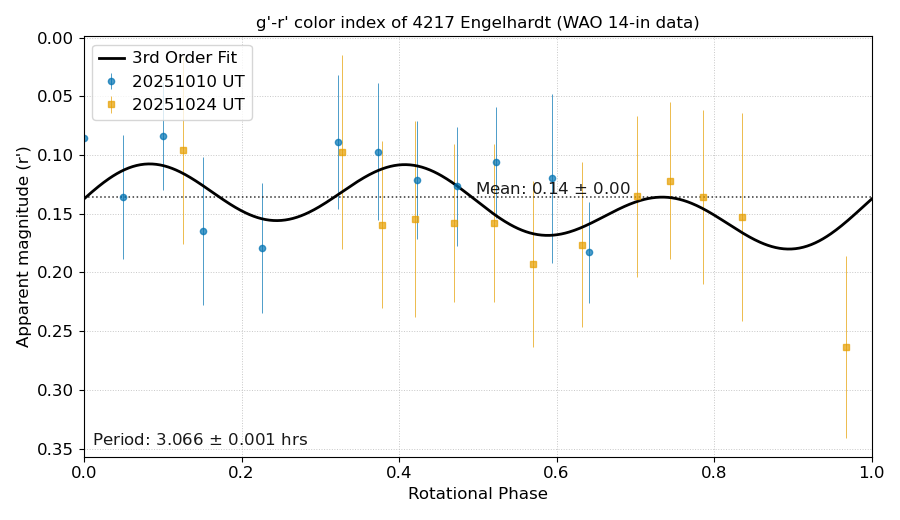
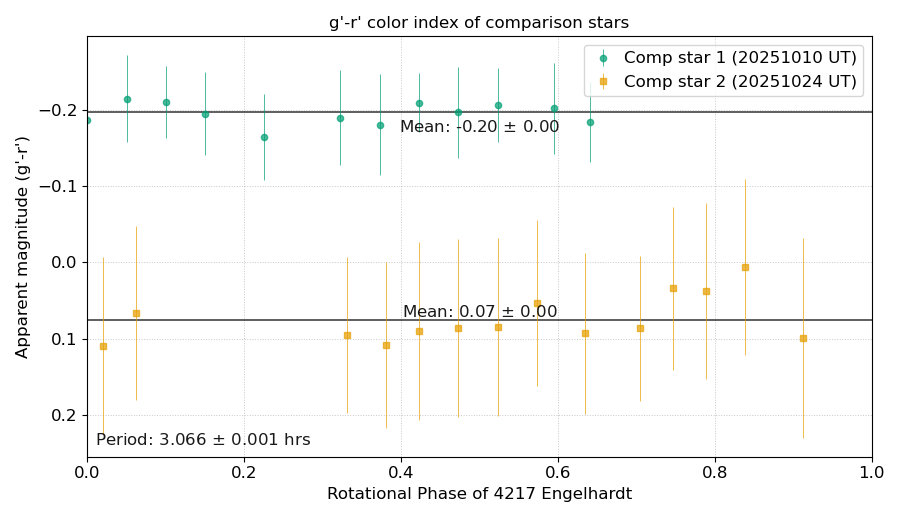
more improvement and lightcurve of comp

diff --git a/comparison.py b/comparison.py
@@ -1,0 +1,118 @@
+import numpy as np
+import pandas as pd
+import matplotlib.pyplot as plt
+from scipy.optimize import curve_fit
+from astropy.stats import sigma_clip
+import pickle
+
+PATH1 = "1010rcomp.csv"
+PATH2 = "1010gcomp.csv"
+PATH3 = "1024rcomp.csv"
+PATH4 = "1024gcomp.csv"
+
+df1 = pd.read_csv(PATH1)
+df2 = pd.read_csv(PATH2)
+df3 = pd.read_csv(PATH3)
+df4 = pd.read_csv(PATH4)
+
+t1 = df1["JD"].astype(float).to_numpy()
+t2 = df2["JD"].astype(float).to_numpy()
+t3 = df3["JD"].astype(float).to_numpy()
+t4 = df4["JD"].astype(float).to_numpy()
+
+m1 = df1["Mag"].astype(float).to_numpy()
+m2 = df2["Mag"].astype(float).to_numpy()
+m3 = df3["Mag"].astype(float).to_numpy()
+m4 = df4["Mag"].astype(float).to_numpy()
+
+e1 = df1["MagErr"].astype(float).to_numpy()
+e2 = df2["MagErr"].astype(float).to_numpy()
+e3 = df3["MagErr"].astype(float).to_numpy()
+e4 = df4["MagErr"].astype(float).to_numpy()
+
+t = []
+m = []
+e = []
+for i in range(len(t2)):
+    t.append((t1[i]+t2[i])/2)
+    m.append(m1[i]-m2[i])
+    e.append(np.sqrt(e1[i]**2+e2[i]**2))
+for i in range(len(t3)):
+    t.append((t3[i]+t4[i])/2)
+    m.append(m3[i]-m4[i])
+    e.append(np.sqrt(e3[i]**2+e4[i]**2))
+t = np.array(t)
+m = np.array(m)
+e = np.array(e)
+print(t)
+
+JD0 = 2460958.5558045
+P_HOURS = 3.066
+P_days = P_HOURS / 24.0
+gap_days = 0.50
+phi = ((t - JD0) / P_days) % 1.0
+title = "g'-r' color index of comparison stars"
+
+dt = np.diff(t, prepend=t[0])
+night_id = np.zeros_like(t, dtype=int)
+for i in range(1, len(t)):
+    night_id[i] = night_id[i-1] + (dt[i] > gap_days)
+
+plt.figure(figsize=(9, 5.2))
+w = 1.0 / np.maximum(e, 1e-6)**2
+
+colors = [
+    "#009E73",  # bluish green
+    "#E69F00",  # orange
+]
+markers = ["o", "s", "^", "D"]
+dates = ["20251010 UT", "20251024 UT"]
+
+unique_nights = np.unique(night_id)
+for i, nid in enumerate(unique_nights):
+    sel = (night_id == nid)
+    w_night = w[sel]
+    m_night = m[sel]
+    
+    mean_night = np.average(m_night, weights=w_night)
+    var_night = np.average((m_night - mean_night)**2, weights=w_night)
+    weight_sum_night = np.sum(w_night)
+    mean_err_night = np.sqrt(var_night / weight_sum_night)
+    
+    plt.axhline(mean_night, color='k', linestyle='-', linewidth=1.1, alpha=0.8)
+    if nid == 0:
+        plt.text(0.5, mean_night + 0.03, f'Mean: {mean_night:.2f} $\\pm$ {mean_err_night:.2f}', 
+             ha='center', va='bottom', alpha=0.9, fontsize=12)
+    else:
+        plt.text(0.5, mean_night, f'Mean: {mean_night:.2f} $\\pm$ {mean_err_night:.2f}', 
+             ha='center', va='bottom', alpha=0.9, fontsize=12)
+    
+    plt.errorbar(
+        phi[sel], m[sel], yerr=e[sel],
+        fmt=markers[i % len(markers)],
+        markersize=4.5,
+        elinewidth=0.7,
+        capsize=0,
+        alpha=0.7,
+        color=colors[i % len(colors)],
+        linestyle='none',
+        label=f"Comp star {nid+1} ({dates[nid]})",
+    )
+
+period_text = f'Period: {P_HOURS:.3f} $\\pm$ 0.001 hrs'
+plt.text(0.01, 0.02, period_text, 
+         transform=plt.gca().transAxes,
+         ha='left', va='bottom', alpha=0.9, fontsize=12)
+
+plt.gca().invert_yaxis()
+plt.xlim(0, 1)
+plt.xlabel("Rotational Phase of 4217 Engelhardt", fontsize=12)
+plt.ylabel("Apparent magnitude (g'-r')", fontsize=12)
+plt.xticks(fontsize=12)
+plt.yticks(fontsize=12) 
+plt.title(title, fontsize=12)
+plt.grid(True, linestyle=':', linewidth=0.7, alpha=0.7)
+plt.legend(loc="upper right", frameon=True, handlelength=1.5, handletextpad=0.5, fontsize=12)
+plt.tight_layout()
+plt.savefig("Figures/colorcurve.png")
+plt.show()

diff --git a/plotcolori.py b/plotcolori.py
@@ -42,39 +42,12 @@ night_id = np.zeros_like(t, dtype=int)
 for i in range(1, len(t)):
     night_id[i] = night_id[i-1] + (dt[i] > gap_days)
 
-def three_harmonic(phi, a0, a1, b1, a2, b2, a3, b3):
-    return (
-        a0
-        + a1 * np.cos(2 * np.pi * phi)   # 1st harmonic
-        + b1 * np.sin(2 * np.pi * phi)
-        + a2 * np.cos(4 * np.pi * phi)   # 2nd harmonic
-        + b2 * np.sin(4 * np.pi * phi)
-        + a3 * np.cos(6 * np.pi * phi)   # 3rd harmonic
-        + b3 * np.sin(6 * np.pi * phi)
-    )
-
-popt, pcov = curve_fit(
-    three_harmonic,
-    phi,
-    m,
-    sigma=e,
-    absolute_sigma=True,
-    p0=[np.mean(m), 0, 0, 0, 0, 0, 0]
-)
-
-print("Best-fit parameters:", popt)
-
-residuals = m - three_harmonic(phi, *popt)
-chi2 = np.sum((residuals / e) ** 2)
-dof = len(m) - len(popt)
-print(f"Reduced χ² = {chi2/dof:.2f}")
-
 plt.figure(figsize=(9, 5.2))
 w = 1.0 / np.maximum(e, 1e-6)**2
 
 colors = [
-    "#0072B2",  # blue
-    "#E69F00",  # orange
+    "#009E73",  # bluish green
+    "#CC79A7",  # purple/magenta
 ]
 markers = ["o", "s", "^", "D"]
 dates = ["20251010 UT", "20251024 UT"]
@@ -94,17 +67,13 @@ for i, nid in enumerate(unique_nights):
         label=f"{dates[nid]}",
     )
 
-phi_fit = np.linspace(0, 1, 600)
-m_fit = three_harmonic(phi_fit, *popt)
-plt.plot(phi_fit, m_fit, 'k-', lw=2, label="3rd Order Fit")
-
 mean_val = np.average(m, weights=w)
 variance = np.average((m - mean_val)**2, weights=w)
 weight_sum = np.sum(w)
 mean_err = np.sqrt(variance / weight_sum)
 
-plt.axhline(mean_val, color='k', linestyle=':', linewidth=1.1, alpha=0.8)
-plt.text(0.595, mean_val, f'Mean: {mean_val:.2f} $\\pm$ {mean_err:.2f}', 
+plt.axhline(mean_val, color='k', linestyle='-', linewidth=1.1, alpha=0.8)
+plt.text(0.5, mean_val + 0.015, f'Mean: {mean_val:.2f} $\\pm$ {mean_err:.2f}', 
          ha='center', va='bottom', alpha=0.9, fontsize=12)
 
 period_text = f'Period: {P_HOURS:.3f} $\\pm$ 0.001 hrs'
@@ -115,7 +84,7 @@ plt.text(0.01, 0.02, period_text,
 plt.gca().invert_yaxis()
 plt.xlim(0, 1)
 plt.xlabel("Rotational Phase", fontsize=12)
-plt.ylabel("Apparent magnitude (r')", fontsize=12)
+plt.ylabel("Apparent magnitude (g'-r')", fontsize=12)
 plt.xticks(fontsize=12)
 plt.yticks(fontsize=12) 
 plt.title(title, fontsize=12)

diff --git a/median.py b/median.py
@@ -4,7 +4,7 @@ import matplotlib.pyplot as plt
 from scipy.optimize import curve_fit
 from astropy.stats import sigma_clip
 
-CSV_PATH = "15.csv"
+CSV_PATH = "g17.csv"
 
 df = pd.read_csv(CSV_PATH)
 e = df["MagErr"].astype(float).to_numpy()
@@ -13,7 +13,7 @@ print("first")
 print(np.median(e))
 print(np.mean(e))
 
-CSV_PATH = "13.csv"
+CSV_PATH = "newg18.csv"
 
 df = pd.read_csv(CSV_PATH)
 e = df["MagErr"].astype(float).to_numpy()
@@ -22,7 +22,7 @@ print("second")
 print(np.median(e))
 print(np.mean(e))
 
-CSV_PATH = "14.csv"
+CSV_PATH = "g19.csv"
 
 df = pd.read_csv(CSV_PATH)
 e = df["MagErr"].astype(float).to_numpy()
@@ -30,3 +30,6 @@ e = df["MagErr"].astype(float).to_numpy()
 print("last")
 print(np.median(e))
 print(np.mean(e))
+
+# notes
+# for 1010, use r19 and g18, for 1024 use 18 and newg18

diff --git a/plotg.py b/plotg.py
@@ -55,9 +55,9 @@ plt.figure(figsize=(9, 5.2))
 w = 1.0 / np.maximum(e, 1e-6)**2
 
 colors = [
-    "#E69F00",  # orange
     "#009E73",  # bluish green
     "#CC79A7",  # purple/magenta
+    "#E69F00",  # orange
 ]
 markers = ["o", "s", "^", "D"]
 dates = ["20251010 UT", "20251023 UT", "20251024 UT"]
@@ -92,10 +92,6 @@ with open("gtentwentyfour.pkl", "wb") as f:
 
 phi_fit = np.linspace(0, 1, 600)
 m_fit = three_harmonic(phi_fit, *popt)
-np.save('g_fitted_curve.npy', m_fit)
-# phi_fit = np.linspace(0, 1, 600)
-# m_fit = four_harmonic(phi_fit, *popt)
-# np.save('g_fitted_curve.npy', m_fit)
 plt.plot(phi_fit, m_fit, 'k-', lw=2, label="3rd Order Fit")
 
 mean_val = np.average(m, weights=w)

diff --git a/plot.py b/plot.py
@@ -56,9 +56,9 @@ w = 1.0 / np.maximum(e, 1e-6)**2
 
 colors = [
     "#0072B2",  # blue
-    "#E69F00",  # orange
-    "#009E73",  # bluish green
     "#CC79A7",  # purple/magenta
+    "#009E73",  # bluish green
+    "#E69F00",  # orange
 ]
 markers = ["o", "s", "^", "D"]
 dates = ["20250919 UT", "20251003 UT", "20251010 UT", "20251024 UT"]
@@ -93,7 +93,6 @@ with open("rtentwentyfour.pkl", "wb") as f:
 
 phi_fit = np.linspace(0, 1, 600)
 m_fit = three_harmonic(phi_fit, *popt)
-np.save('r_fitted_curve.npy', m_fit)
 plt.plot(phi_fit, m_fit, 'k-', lw=2, label="3rd Order Fit")
 
 mean_val = np.average(m, weights=w)
